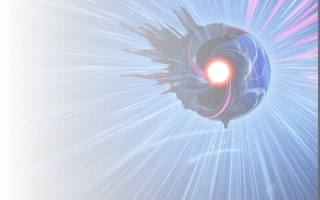
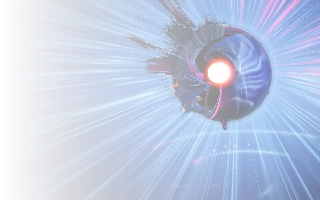
Universe Shifter: the orb is turned a little to its own right, so it is seen slightly from the side instead of square on

diff --git a/src/lib/profile-theme-shaders.ts b/src/lib/profile-theme-shaders.ts
@@ -1771,6 +1771,8 @@ const float SG_R = .22; // the orb's radius, canvas heights
 // the bottom of the funnel, just short of the ball's centre.
 const vec3 SG_AX = vec3(-.46, .14, .877);
 const vec3 SG_CORE = SG_AX * .2;
+// How far the whole ball is turned from facing us, radians.
+const float SG_YAW = .3;
 // The key light: the glare off to the right.
 const vec3 SG_KEY = vec3(.72, .3, .62);
 
@@ -1958,6 +1960,12 @@ vec4 sgOrb(vec2 d, float t) {
   vec2 s = d / SG_R;
   if (length(s) > 2.7 && (s.y > -1. || abs(s.x) > .6)) return vec4(0.);
   vec3 ro = vec3(s, 3.), rd = vec3(0., 0., -1.);
+  // the ball turned a little to its own right (our left), so it is seen
+  // slightly from the side rather than square on
+  mat2 yaw = rot(SG_YAW);
+  ro.xz = yaw * ro.xz;
+  rd.xz = yaw * rd.xz;
+  vec3 V = -rd;
   float z = 0., near = 1e3, zNear = 0., edge = PX * 1.5 / SG_R;
   vec2 h = vec2(1e3, 0.), hNear = h;
   for (int i = 0; i < 130; i++) {
@@ -1990,11 +1998,11 @@ vec4 sgOrb(vec2 d, float t) {
   // of the crease, so the two meet with no line between them
   // (on the ink itself, only its root right by the ball)
   float join = h.y > 3.5 ? smoothstep(.25, 0., length(p.xy) - 1.) : h.y > 2.5 ? 0. : smoothstep(.22, 0., sgInk(p, t));
-  n = normalize(mix(n, vec3(0., 0., 1.), join * .85));
+  n = normalize(mix(n, V, join * .85));
   // the liquid isn't perfectly smooth: slow ripples break up its reflections
   n = normalize(n + .14 * (vec3(inoise(p.xy * 5. + t * .1), inoise(p.yz * 5. - t * .1), inoise(p.zx * 5.)) - .5));
   vec3 R = reflect(rd, n);
-  float fres = .4 + .6 * pow(1. - max(n.z, 0.), 2.);
+  float fres = .4 + .6 * pow(1. - max(dot(n, V), 0.), 2.);
   float key = max(dot(n, SG_KEY), 0.);
   vec3 col;
   if (h.y > .5 && h.y < 1.5) {
@@ -2052,7 +2060,7 @@ vec4 sgOrb(vec2 d, float t) {
   // the core's light: red, on the walls close to it only
   col += vec3(1., .3, .08) * (.15 + .85 * max(dot(n, L), 0.)) * exp(-(ld - .23) * 22.) * .5;
   // backlight: the tunnel behind wraps a thin rim of light round the edge
-  col += vec3(.4, .65, 1.) * pow(1. - abs(n.z), 6.) * 1.3 * (1. - join);
+  col += vec3(.4, .65, 1.) * pow(1. - abs(dot(n, V)), 6.) * 1.3 * (1. - join);
   return vec4(col, cover);
 }
 

diff --git a/src/components/supporter/ProfileThemeBackdrop.tsx b/src/components/supporter/ProfileThemeBackdrop.tsx
@@ -101,7 +101,7 @@ export function profileThemeStrip(theme: SupporterProfileThemeId): string {
 
 /* Bump after re-rendering a thumb (and its strip): /images/ is served cache-first by the
    service worker, so a changed file needs a new URL. */
-const THEME_THUMB_VERSION = 10;
+const THEME_THUMB_VERSION = 11;
 
 /* A thumbnail of a theme's backdrop, for the drawer and the slot: the
    rendered still, or live while `still` is off, over that same still until
